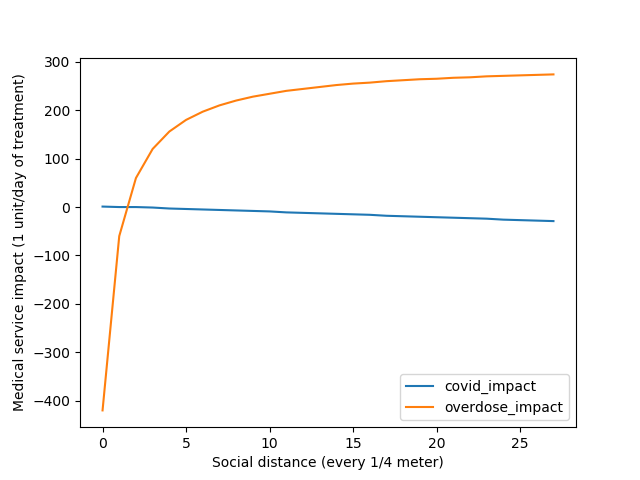
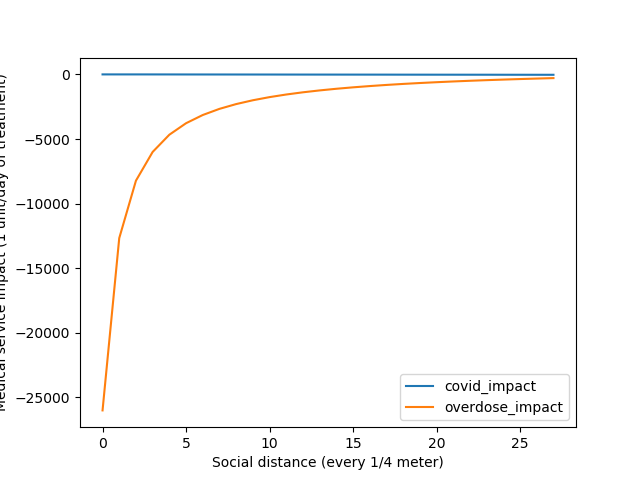
Added drop down menu and normal option

diff --git a/templates/all.html b/templates/all.html
@@ -18,13 +18,21 @@
   <body>
     <img src="{{ url_for('static', filename='sample.png') }}" alt="User Image">
     <div>
+
         <form action="{{ url_for('all')}}" method="POST">
+            <label for="social_distance">Choose how restrictive your clinic is: </label>
+            <select id="drop_down1" name="drop_down1">
+            <option value=1>No Social Distancing</option>
+            <option value=2>Minimal Social Distancing</option>
+            <option value=7>Proper Social Distancing</option>
+            </select>
             <p>Enter the number of facilities, average facility size, and hours of operation</p>
             <input type = "number" step="any" id = "add_num1" name = "add_num1" placeholder='Locations available' required><label> </label><br>
             <input type = "number" step="any" id = "add_num2" name = "add_num2" placeholder='Size of Facilities' required><label>  </label><br>
             <input type = "number" step="any" id = "add_num3" name = "add_num3" placeholder=' Hours Open' required><label> </label><br>
             <p>The actual social distancing protocol being enforced, 1 being not following the rules at all, 7 being really strict </p>
             <input type = "number" step="any" id = "add_num4" name = "add_num4" placeholder='Between 1 - 7' required><label>  </label><br>
+            <input type = "number" step="any" id = "add_num5" name = "add_num5" placeholder='Normal Traffic' required><label>  </label><br>
             <input type = "submit" value = "Calculate impact" name = "submit" ><br>
         </form>
     </div>

diff --git a/simple_session.py b/simple_session.py
@@ -49,10 +49,16 @@ def all():
     if request.method == 'POST':
         if request.form['submit'] == 'Calculate impact':
             num1 = [0,0,0,0,0,0]
+            """
+            Add new items here and in all.html to have new user inputs
+            """
             num1[0] = request.form['add_num1']
             num1[1] = request.form['add_num2']
             num1[2] = request.form['add_num3']
             num1[3] = request.form['add_num4']
+            num1[4] = request.form['add_num5']
+            social_distance_menu = request.form['drop_down1']
+            print(social_distance_menu)
             num1 = [float(i) for i in num1]
             if num1[0] > 100 or num1[0] < 1:
                 num1[0] = 1
@@ -65,8 +71,8 @@ def all():
             social_distance = []
             for i in range(28):
                 social_distance.append(i)
-            overdose_impact = calculate_medical_impact(num1[0],num1[1],num1[2],num1[3],'overdose')
-            covid_impact = calculate_medical_impact(num1[0],num1[1],num1[2],num1[3],'covid')
+            overdose_impact = calculate_medical_impact(num1[0],num1[1],num1[2],num1[3],'overdose',num1[4])
+            covid_impact = calculate_medical_impact(num1[0],num1[1],num1[2],num1[3],'covid',num1[4])
             generate_image(covid_impact,overdose_impact,social_distance)
 
     r = make_response(render_template("all.html",
@@ -101,11 +107,10 @@ def generate_image(covid_impact, overdose_impact, social_distance):
     fig.savefig(full_filename)
     return full_filename
 
-def calculate_medical_impact(locations, avg_space, hours, social_distance, covid_or_overdose):
+def calculate_medical_impact(locations, avg_space, hours, social_distance, covid_or_overdose, norm=500):
     impact_projection = []
     A = social_distance
     space = locations*avg_space
-    norm = 500
     for S in range(1,29):
         infected =0.001*60*(A-S)
         critical_covid = 0.25*infected
